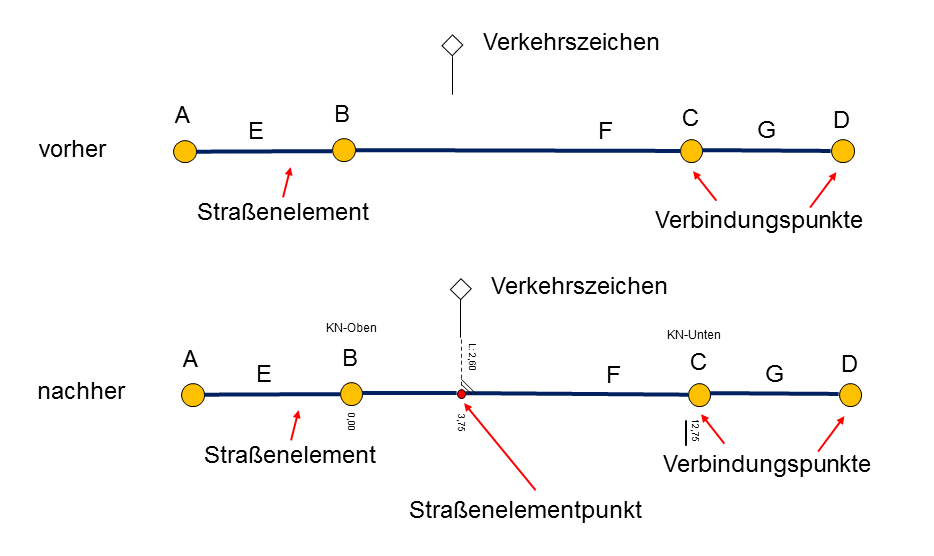
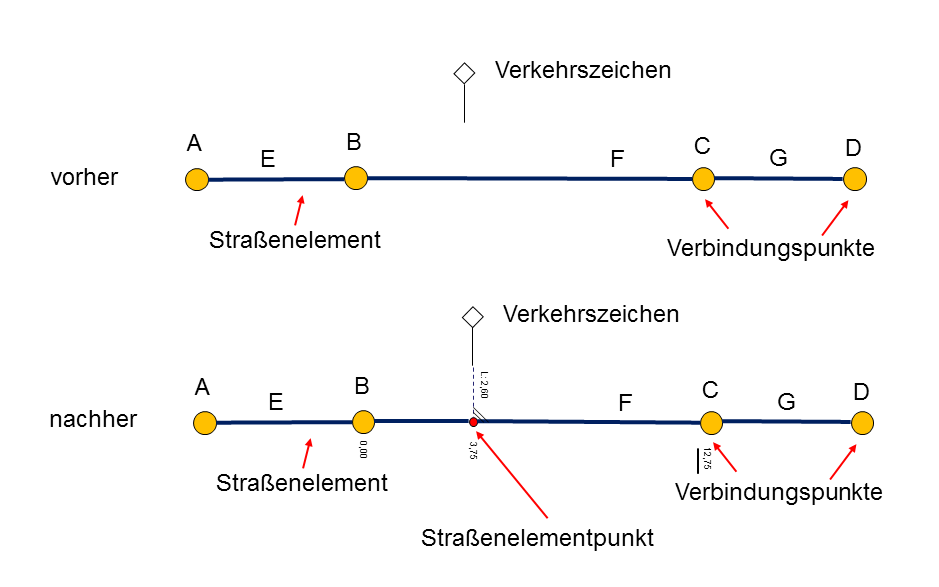
weitere Korrekturen im Rahmen des Lenkungsgruppentreffens am 02.02.2018

diff --git a/source/flaechen/flaeche-bearbeiten-zeichnen.rst b/source/flaechen/flaeche-bearbeiten-zeichnen.rst
@@ -12,10 +12,13 @@ Geometrie
 
 #. Verschiebung der Stützpunkte einer Fläche als geschlossenes Polygon (**noch** zu realisieren auf **Applikationsebene**)
 #. Anpassung der Straßenelementpunkte überall dort, wo die Fläche Straßenelemente schneidet (**noch** zu realisieren auf **Datenbankebene**)
-#. Teilelement auf Start-Straßenelement (von Start-Straßenelementpunkt bis nächsten Verbindungspunkt in Richtung Ende-Straßenelement) neu bilden – Start-Straßenelement ist hier jenes Straßenelement, das „links“ keine weiteren Straßenelemente mit durch die Flächenverschneidung entstandenen Straßenelementpunkten mehr aufweist (**noch** zu realisieren auf **Datenbankebene**)
-#. Teilelement auf Ende-Straßenelement (von nächstem Verbindungspunkt aus Richtung Start-Straßenelement bis Ende-Straßenelementpunkt) neu bilden – Ende-Straßenelement ist hier jenes Straßenelement, das „rechts“ keine weiteren Straßenelemente mit durch die Flächenverschneidung entstandenen Straßenelementpunkten mehr aufweist (**noch** zu realisieren auf **Datenbankebene**)
-#. alte Teilelemente löschen
-#. Neuverknüpfung der Teilelemente und der dazwischenliegenden Straßenelemente mit der Fläche (**noch** zu realisieren auf **Datenbankebene**)
+#. falls Fläche über einen oder mehrere Verbindungspunkte hinausgeht: Auftrennung der Fläche an jedem dieser Verbindungspunkte (jeweilige Auftrennungskante beginnt „links“ in jenem Punkt auf der Flächenaußenkante, der die kürzeste Entfernung zum Verbindungspunkt aufweist, geht durch den Verbindungspunkt und endet „rechts“ in jenem Punkt auf der Flächenaußenkante, der die kürzeste Entfernung zum Verbindungspunkt aufweist) (**noch** zu realisieren auf **Datenbankebene**)
+#. falls Fläche aufgetrennt wurde und Straßenelementpunkte nach wie vor existieren bzw. entstanden sind: alte Teilelemente löschen und Teilelemente auf Straßenelementen bilden (**noch** zu realisieren auf **Datenbankebene**)
+#. falls Fläche nicht aufgetrennt wurde und Straßenelementpunkte nach wie vor existieren bzw. entstanden sind: altes Teilelement löschen und Teilelement auf Straßenelement neu bilden (**noch** zu realisieren auf **Datenbankebene**)
+#. falls Fläche aufgetrennt wurde und Straßenelementpunkte nach wie vor existieren bzw. entstanden sind: Verknüpfung der jeweiligen Teilelemente und des jeweils betroffenen Straßenelementes (Erfüllung der Bedingung 1..1-Verknüpfung zwischen Straßenelement und Fläche) mit der jeweiligen Fläche (**noch** zu realisieren auf **Datenbankebene**)
+#. falls Fläche nicht aufgetrennt wurde und Straßenelementpunkte nach wie vor existieren bzw. entstanden sind: Neuverknüpfung des Teilelementes und des betroffenen Straßenelementes (Erfüllung der Bedingung 1..1-Verknüpfung zwischen Straßenelement und Fläche) mit der Fläche (**noch** zu realisieren auf **Datenbankebene**)
+#. falls Fläche aufgetrennt wurde und keine Straßenelementpunkte nach wie vor existieren bzw. entstanden sind: Verknüpfung des jeweils betroffenen Straßenelementes (Erfüllung der Bedingung 1..1-Verknüpfung zwischen Straßenelement und Fläche) mit der jeweiligen Fläche (**noch** zu realisieren auf **Datenbankebene**)
+#. falls Fläche nicht aufgetrennt wurde und keine Straßenelementpunkte nach wie vor existieren bzw. entstanden sind: Neuverknüpfung des betroffenen Straßenelementes (Erfüllung der Bedingung 1..1-Verknüpfung zwischen Straßenelement und Fläche) mit der Fläche (**noch** zu realisieren auf **Datenbankebene**)
 #. Prüfung der Topologie (**noch** zu realisieren auf **Datenbankebene**)
 
 **Anmerkung:** Im Resultat ist dieser Anwendungsfall identisch mit dem Anwendungsfall :doc:`../flaechen/flaeche-bearbeiten-trapezmodell`, da in beiden Fällen die Applikationsebene einfach eine Fläche an die Datenbankebene übergibt. Nur die konstruktionsbezogene Herangehensweise auf Applikationsebene ist unterschiedlich. Grundsätzlich gilt: Wurde eine Fläche mittels Zeichnen erfasst, soll sie dennoch mittels Stationierung und Querprofil weiterbearbeitet werden können.

diff --git a/source/flaechen/flaeche-erfassen-zeichnen.rst b/source/flaechen/flaeche-erfassen-zeichnen.rst
@@ -12,9 +12,13 @@ Geometrie
 
 #. Erfassung einer Fläche als geschlossenes Polygon durch Erfassung von Stützpunkten (**noch** zu realisieren auf **Applikationsebene**)
 #. Erstellung von Straßenelementpunkten überall dort, wo die Fläche Straßenelemente schneidet (**noch** zu realisieren auf **Datenbankebene**)
-#. Teilelement auf Start-Straßenelement (von Start-Straßenelementpunkt bis nächsten Verbindungspunkt in Richtung Ende-Straßenelement) bilden: Start-Straßenelement ist hier jenes Straßenelement, das „links“ keine weiteren Straßenelemente mit durch die Flächenverschneidung entstandenen Straßenelementpunkten mehr aufweist (**noch** zu realisieren auf **Datenbankebene**)
-#. Teilelement auf Ende-Straßenelement (von nächstem Verbindungspunkt aus Richtung Start-Straßenelement bis Ende-Straßenelementpunkt) bilden: Ende-Straßenelement ist hier jenes Straßenelement, das „rechts“ keine weiteren Straßenelemente mit durch die Flächenverschneidung entstandenen Straßenelementpunkten mehr aufweist (**noch** zu realisieren auf **Datenbankebene**)
-#. Verknüpfung der Teilelemente und der dazwischenliegenden Straßenelemente mit der Fläche (**noch** zu realisieren auf **Datenbankebene**)
+#. falls Fläche über einen oder mehrere Verbindungspunkte hinausgeht: Auftrennung der Fläche an jedem dieser Verbindungspunkte (jeweilige Auftrennungskante beginnt „links“ in jenem Punkt auf der Flächenaußenkante, der die kürzeste Entfernung zum Verbindungspunkt aufweist, geht durch den Verbindungspunkt und endet „rechts“ in jenem Punkt auf der Flächenaußenkante, der die kürzeste Entfernung zum Verbindungspunkt aufweist) (**noch** zu realisieren auf **Datenbankebene**)
+#. falls Fläche aufgetrennt wurde und Straßenelementpunkte entstanden sind: Teilelemente auf Straßenelementen bilden (**noch** zu realisieren auf **Datenbankebene**)
+#. falls Fläche nicht aufgetrennt wurde und Straßenelementpunkte entstanden sind: Teilelement auf Straßenelement bilden (**noch** zu realisieren auf **Datenbankebene**)
+#. falls Fläche aufgetrennt wurde und Straßenelementpunkte entstanden sind: Verknüpfung der jeweiligen Teilelemente und des jeweils betroffenen Straßenelementes (Erfüllung der Bedingung 1..1-Verknüpfung zwischen Straßenelement und Fläche) mit der jeweiligen Fläche (**noch** zu realisieren auf **Datenbankebene**)
+#. falls Fläche nicht aufgetrennt wurde und Straßenelementpunkte entstanden sind: Verknüpfung dew Teilelementes und des betroffenen Straßenelementes (Erfüllung der Bedingung 1..1-Verknüpfung zwischen Straßenelement und Fläche) mit der Fläche (**noch** zu realisieren auf **Datenbankebene**)
+#. falls Fläche aufgetrennt wurde und keine Straßenelementpunkte entstanden sind: Verknüpfung des jeweils betroffenen Straßenelementes (Erfüllung der Bedingung 1..1-Verknüpfung zwischen Straßenelement und Fläche) mit der jeweiligen Fläche (**noch** zu realisieren auf **Datenbankebene**)
+#. falls Fläche nicht aufgetrennt wurde und keine Straßenelementpunkte entstanden sind: Verknüpfung des betroffenen Straßenelementes (Erfüllung der Bedingung 1..1-Verknüpfung zwischen Straßenelement und Fläche) mit der Fläche (**noch** zu realisieren auf **Datenbankebene**)
 #. Prüfung der Topologie (**noch** zu realisieren auf **Datenbankebene**)
 
 **Anmerkung:** Im Resultat ist dieser Anwendungsfall identisch mit dem Anwendungsfall :doc:`../flaechen/flaeche-erfassen-trapezmodell`, da in beiden Fällen die Applikationsebene einfach eine Fläche an die Datenbankebene übergibt. Nur die konstruktionsbezogene Herangehensweise auf Applikationsebene ist unterschiedlich. Grundsätzlich gilt: Wurde eine Fläche mittels Zeichnen erfasst, soll sie dennoch mittels Stationierung und Querprofil weiterbearbeitet werden können.

diff --git a/source/flaechen/flaeche-bearbeiten-trapezmodell.rst b/source/flaechen/flaeche-bearbeiten-trapezmodell.rst
@@ -3,21 +3,22 @@
 Fläche mittels Stationierung und Querprofil bearbeiten (Geometrie im „Trapezmodell“ ändern)
 ===========================================================================================
 
+.. image:: /_static/flaeche-bearbeiten-trapezmodell.png
+
 .. _flaeche-bearbeiten-trapezmodell_geometrie:
 
 Geometrie
 ---------
 
-#. Verschiebung von Straßenelementpunkten und/oder Änderung von Querprofilen (**noch** zu realisieren auf **Applikationsebene**):
-    * optionale Verschiebung des Start-Straßenelementpunktes und damit zugleich Neufestlegung des Start-Straßenelements
-    * optionale Verschiebung des Ende-Straßenelementpunktes und damit zugleich Neufestlegung des Ende-Straßenelements
-    * optionale Verschiebung, Löschung und/oder Erfassung der dazwischenliegenden Straßenelementpunkte für die Querprofile
-    * optionale Neuingabe der L- und/oder R-Ordinaten der Querprofile an jedem dazwischenliegenden Straßenelementpunkt für die Querprofile
+#. Verschiebung von Straßenelementpunkten und/oder Änderung von Querprofilen, und zwar nur auf *einem* Straßenelement (also zwischen zwei Verbindungspunkten) (**noch** zu realisieren auf **Applikationsebene**):
+    * optionale Verschiebung des Start-Straßenelementpunktes oder Neuauswahl des Start-Verbindungspunktes
+    * optionale Verschiebung des Ende-Straßenelementpunktes oder Neuauswahl des Ende-Verbindungspunktes
+    * optionale Verschiebung, Löschung und/oder Erfassung der dazwischenliegenden Straßenelementpunkte
+    * optionale Neuingabe der L- und/oder R-Ordinaten der Querprofile
 #. Anpassung der Fläche als geschlossenes Polygon (**noch** zu realisieren auf **Applikationsebene**)
-#. Teilelement auf Start-Straßenelement (von Start-Straßenelementpunkt bis nächsten Verbindungspunkt in Richtung Ende-Straßenelement) neu bilden (**noch** zu realisieren auf **Datenbankebene**)
-#. Teilelement auf Ende-Straßenelement (von nächstem Verbindungspunkt aus Richtung Start-Straßenelement bis Ende-Straßenelementpunkt) neu bilden (**noch** zu realisieren auf **Datenbankebene**)
-#. alte Teilelemente löschen
-#. Neuverknüpfung der Teilelemente und der dazwischenliegenden Straßenelemente mit der Fläche (**noch** zu realisieren auf **Datenbankebene**)
+#. falls Straßenelementpunkte nach wie vor existieren bzw. entstanden sind: altes Teilelement löschen und Teilelement auf Straßenelement bilden (**noch** zu realisieren auf **Datenbankebene**)
+#. falls Straßenelementpunkte nach wie vor existieren bzw. entstanden sind: Neuverknüpfung des Teilelementes und des betroffenen Straßenelementes (Erfüllung der Bedingung 1..1-Verknüpfung zwischen Straßenelement und Fläche) mit der Fläche (**noch** zu realisieren auf **Datenbankebene**)
+#. falls keine Straßenelementpunkte existieren bzw. entstanden sind: Neuverknüpfung des betroffenen Straßenelementes (Erfüllung der Bedingung 1..1-Verknüpfung zwischen Straßenelement und Fläche) mit der Fläche (**noch** zu realisieren auf **Datenbankebene**)
 #. Prüfung der Topologie (**noch** zu realisieren auf **Datenbankebene**)
 
 **Anmerkung:** Im Resultat ist dieser Anwendungsfall identisch mit dem Anwendungsfall :doc:`../flaechen/flaeche-erfassen-zeichnen`, da in beiden Fällen die Applikationsebene einfach eine Fläche an die Datenbankebene übergibt. Nur die konstruktionsbezogene Herangehensweise auf Applikationsebene ist unterschiedlich. Grundsätzlich gilt: Wurde eine Fläche mittels Stationierung und Querprofil erfasst, soll sie dennoch mittels Zeichnen weiterbearbeitet werden können.

diff --git a/source/flaechen/flaeche-erfassen-trapezmodell.rst b/source/flaechen/flaeche-erfassen-trapezmodell.rst
@@ -10,15 +10,15 @@ Fläche mittels Stationierung und Querprofil erfassen („Trapezmodell“)
 Geometrie
 ---------
 
-#. Erfassung von Straßenelementpunkten und Querprofilen (**noch** zu realisieren auf **Applikationsebene**):
-    * Erfassung des Start-Straßenelementpunktes und damit zugleich Festlegung des Start-Straßenelements
-    * Erfassung des Ende-Straßenelementpunktes und damit zugleich Festlegung des Ende-Straßenelements
-    * Erfassung der dazwischenliegenden Straßenelementpunkte für die Querprofile
-    * Eingabe der L- und R-Ordinaten der Querprofile an jedem dazwischenliegenden Straßenelementpunkt für die Querprofile
+#. Erfassung von Straßenelementpunkten und Querprofilen, und zwar nur auf *einem* Straßenelement (also zwischen zwei Verbindungspunkten) (**noch** zu realisieren auf **Applikationsebene**):
+    * Erfassung des Start-Straßenelementpunktes oder Auswahl des Start-Verbindungspunktes
+    * Erfassung des Ende-Straßenelementpunktes oder Auswahl des Ende-Verbindungspunktes
+    * Erfassung der dazwischenliegenden Straßenelementpunkte
+    * Eingabe der L- und R-Ordinaten der Querprofile
 #. Erzeugung einer Fläche als geschlossenes Polygon (**noch** zu realisieren auf **Applikationsebene**)
-#. Teilelement auf Start-Straßenelement (von Start-Straßenelementpunkt bis nächsten Verbindungspunkt in Richtung Ende-Straßenelement) bilden (**noch** zu realisieren auf **Datenbankebene**)
-#. Teilelement auf Ende-Straßenelement (von nächstem Verbindungspunkt aus Richtung Start-Straßenelement bis Ende-Straßenelementpunkt) bilden (**noch** zu realisieren auf **Datenbankebene**)
-#. Verknüpfung der Teilelemente und der dazwischenliegenden Straßenelemente mit der Fläche (**noch** zu realisieren auf **Datenbankebene**)
+#. falls Straßenelementpunkte entstanden sind: Teilelement auf Straßenelement bilden (**noch** zu realisieren auf **Datenbankebene**)
+#. falls Straßenelementpunkte entstanden sind: Verknüpfung des Teilelementes und des betroffenen Straßenelementes (Erfüllung der Bedingung 1..1-Verknüpfung zwischen Straßenelement und Fläche) mit der Fläche (**noch** zu realisieren auf **Datenbankebene**)
+#. falls keine Straßenelementpunkte entstanden sind: Verknüpfung des betroffenen Straßenelementes (Erfüllung der Bedingung 1..1-Verknüpfung zwischen Straßenelement und Fläche) mit der Fläche (**noch** zu realisieren auf **Datenbankebene**)
 #. Prüfung der Topologie (**noch** zu realisieren auf **Datenbankebene**)
 
 **Anmerkung:** Im Resultat ist dieser Anwendungsfall identisch mit dem Anwendungsfall :doc:`../flaechen/flaeche-erfassen-zeichnen`, da in beiden Fällen die Applikationsebene einfach eine Fläche an die Datenbankebene übergibt. Nur die konstruktionsbezogene Herangehensweise auf Applikationsebene ist unterschiedlich. Grundsätzlich gilt: Wurde eine Fläche mittels Stationierung und Querprofil erfasst, soll sie dennoch mittels Zeichnen weiterbearbeitet werden können.

diff --git a/source/flaechen/flaeche-loeschen.rst b/source/flaechen/flaeche-loeschen.rst
@@ -13,9 +13,8 @@ Geometrie
 siehe Präambel, Abschnitt :ref:`Historie <praeambel_historie>`
 
 #. zugehörige Straßenelementpunkte ebenfalls löschen, falls keine andere, „lebende“ Fläche mehr mit diesen Straßenelementpunkten verknüpft ist (**noch** zu realisieren auf **Datenbankebene**)
-#. zugehöriges Teilelement auf Start-Straßenelement ebenfalls löschen, falls keine andere, „lebende“ Fläche mehr mit dem Teilelement verknüpft ist (**noch** zu realisieren auf **Datenbankebene**)
-#. zugehöriges Teilelement auf Ende-Straßenelement ebenfalls löschen, falls keine andere, „lebende“ Fläche mehr mit dem Teilelement verknüpft ist (**noch** zu realisieren auf **Datenbankebene**)
-#. Aufhebung der Verknüpfung der Teilelemente und der dazwischenliegenden Straßenelemente mit der Fläche (**noch** zu realisieren auf **Datenbankebene**)
+#. zugehöriges Teilelement ebenfalls löschen, falls keine andere, „lebende“ Fläche mehr mit dem Teilelement verknüpft ist (**noch** zu realisieren auf **Datenbankebene**)
+#. Aufhebung der Verknüpfung des Teilelementes und des betroffenen Straßenelementes mit der Fläche (**noch** zu realisieren auf **Datenbankebene**)
 
 .. _flaeche-loeschen_sachdaten:
 

diff --git a/source/index.rst b/source/index.rst
@@ -8,7 +8,6 @@ Anwendungsfälle für UkoS, das Umsetzungsprojekt kommunale Straßendaten Meckle
    :maxdepth: 2
 
    praeambel/praeambel
-   bemerkungen-offene-fragen/bemerkungen-offene-fragen
 
 Straßenelemente und Verbindungspunkte
 -------------------------------------
